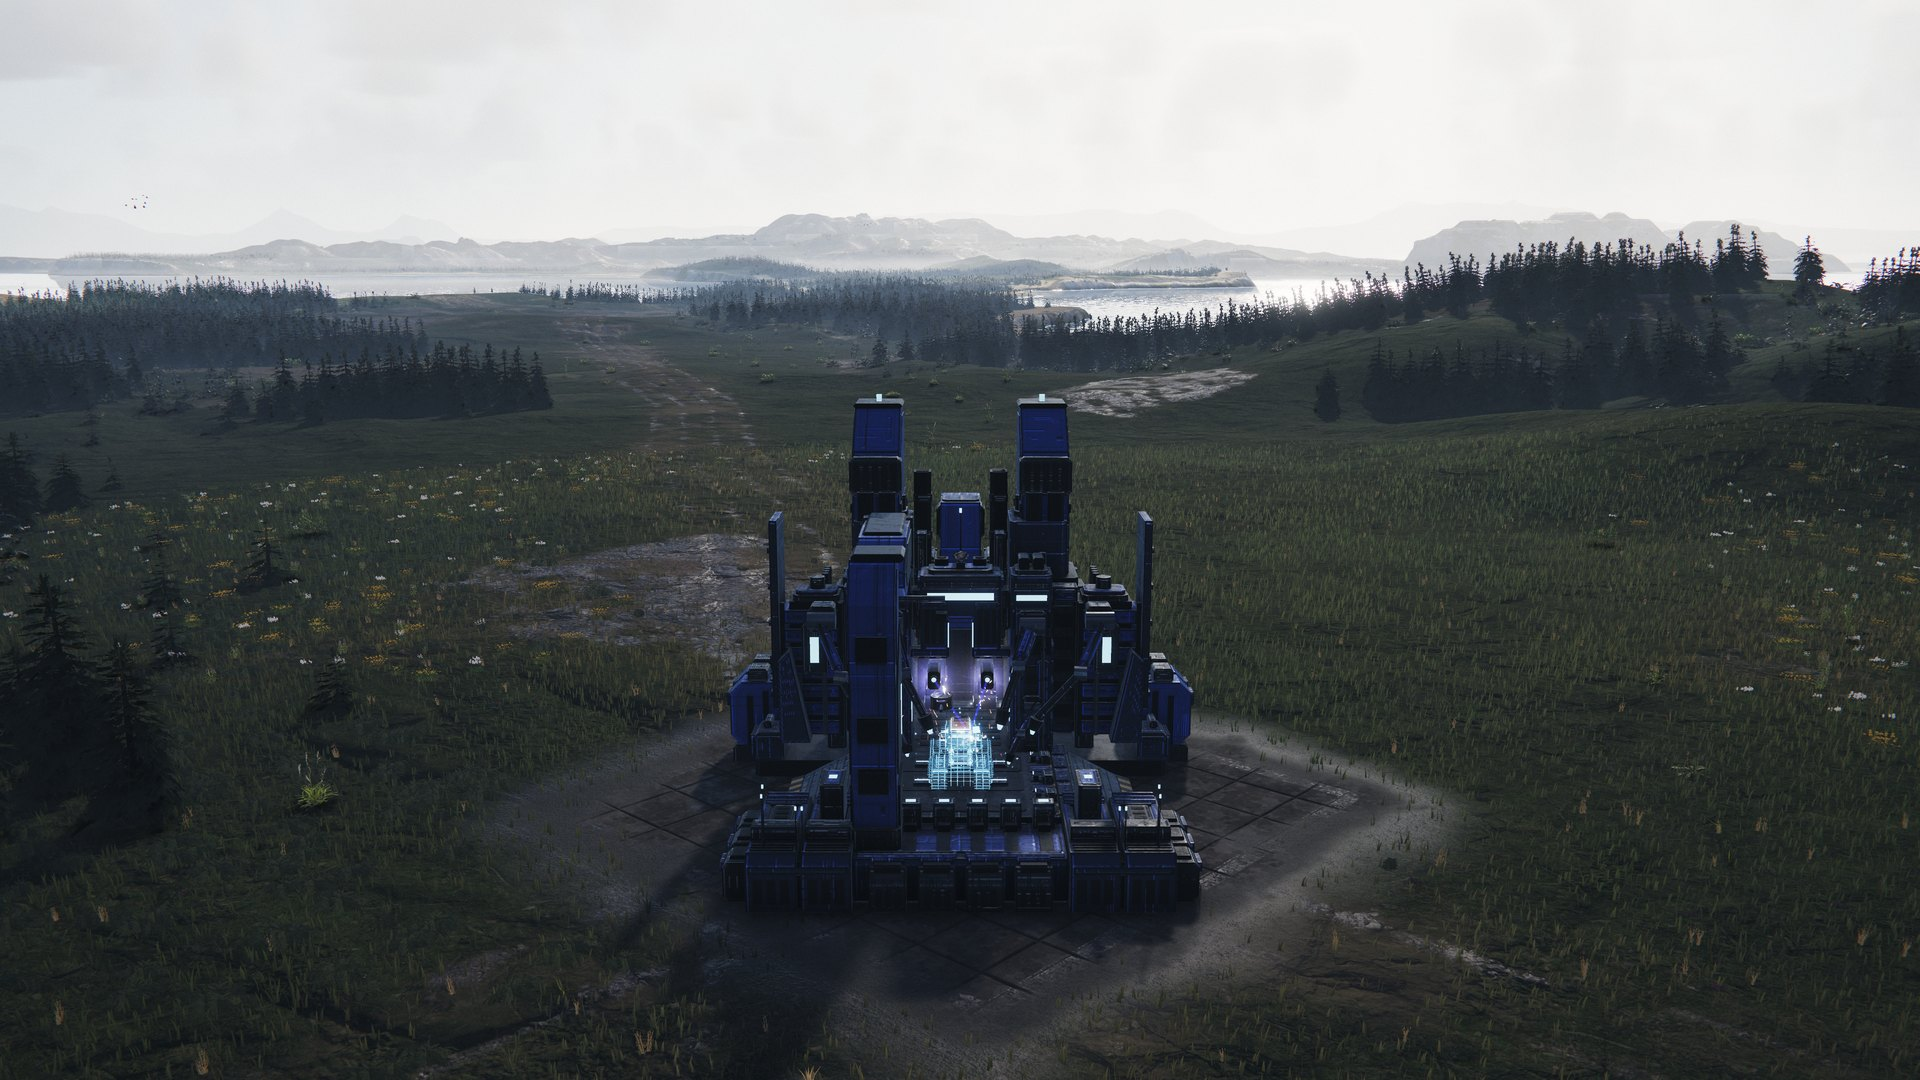
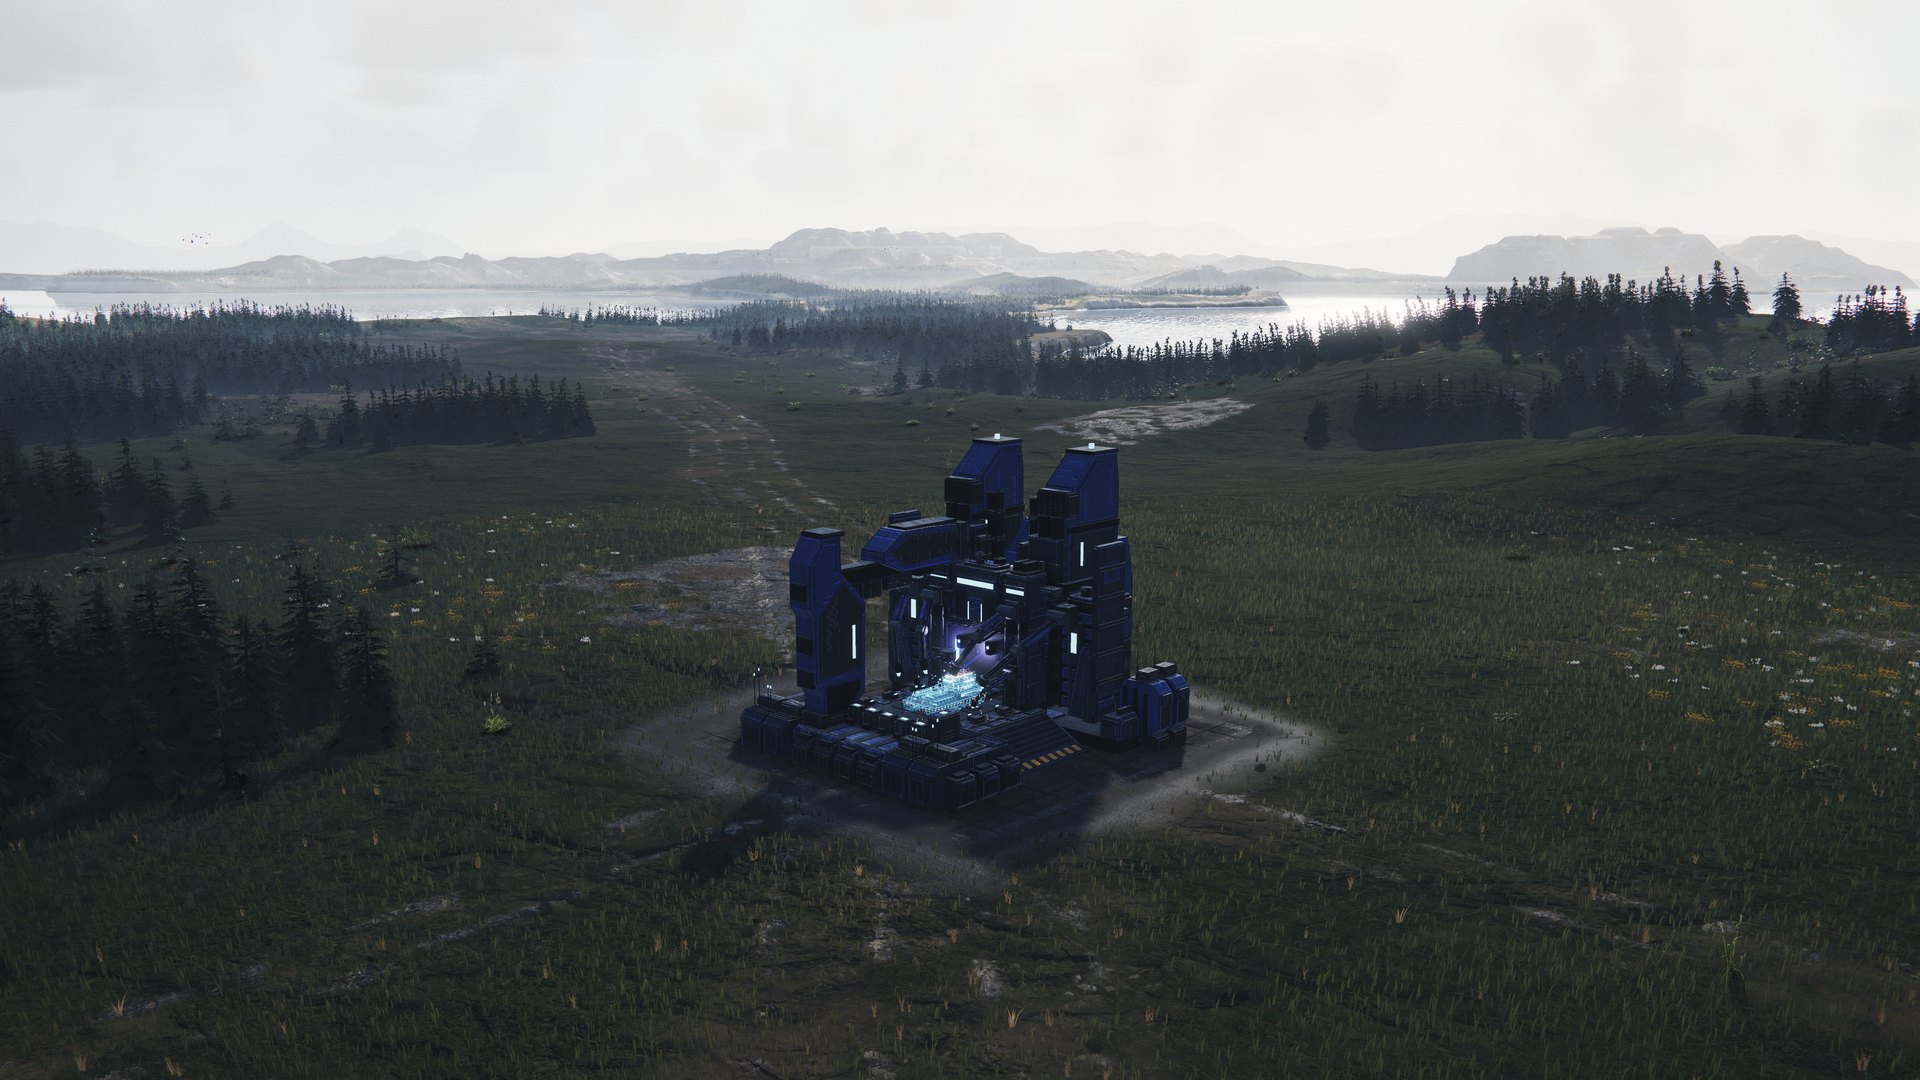
stand: a factory stands square to the map as the game places it (square); showcase 25 shot again square to its pad; 32 (snow on the rock hill) out: the snow look smears the hill's steep rock
Chris, 2026-11-01: the factory stood turned against its pad, and the snowy rock face looked glitched.

diff --git a/render/fx_stand.cpp b/render/fx_stand.cpp
@@ -605,6 +605,10 @@ void FxStand::Update(World& world, double now, Vec3 right, const std::function<f
         const Vec3 builderAt = factory ? at : at - away * (setup_.spacing * 0.5f);
         FxEntities::UnitPlace builderHow = how;
         if (!factory) builderHow.forward = away;  // (facing what it builds)
+        // [square] a factory stands square to the map as the game places a structure (its pad laid square under it; Chris,
+        // 2026-11-01: a factory turned against its pad in the showcase), the one it builds facing the same way
+        const Vec3 f = builderHow.forward;
+        if (factory) how.forward = builderHow.forward = std::fabs(f.x) > std::fabs(f.z) ? Vec3{f.x > 0 ? 1.0f : -1.0f, 0, 0} : Vec3{0, 0, f.z > 0 ? 1.0f : -1.0f};
         side.unit = entities_->AddUnit(setup_.build, builderAt, builderHow, &why);
         if (!side.unit) fprintf(stderr, "render: --fx-build: %s\n", why.c_str());
         // (buildfx: --fx-build-count, more engineers round it, each building it too)

diff --git a/README.md b/README.md
@@ -168,9 +168,6 @@ repository and are not released yet. An early look at them is below.
 ![Rain over the meadows](docs/images/showcase/31_scenery_rain.jpg)
 *Rain over the meadows*
 
-![Snow on the rock hill](docs/images/showcase/32_scenery_snow.jpg)
-*Snow on the rock hill*
-
 ## Simulation (`src/`)
 
 What is built, each part rebuilt from how the original behaves:
